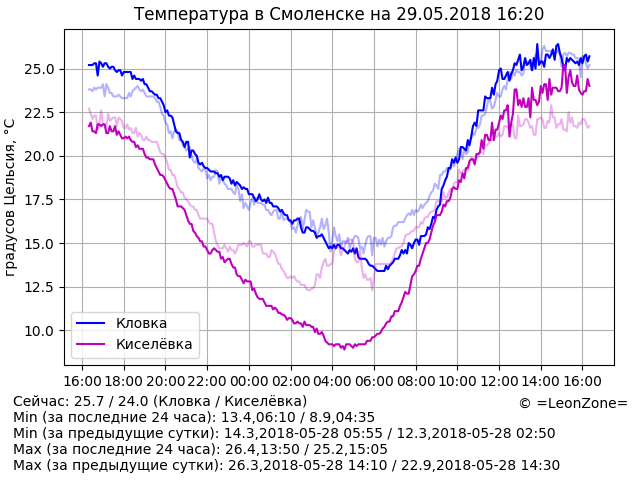
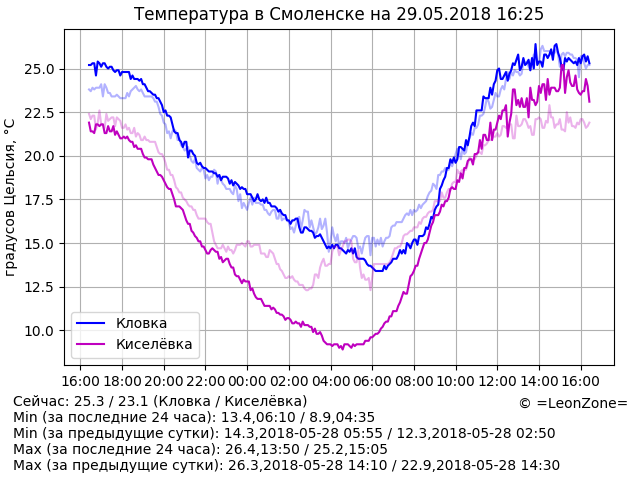
Update data

Changed region(s): [[0.125, 0.0938, 0.9375, 0.75], [0.0938, 0.7812, 0.9375, 0.8438], [0.4062, 0.625, 0.5, 0.6875]]

diff --git a/index.html b/index.html
@@ -14,7 +14,7 @@
 	<p align="center"><script>document.write("<img src=\"graph.png?rnd="+Math.random()+"\" alt=\"Температура в Смоленске\" align=\"middle\" width=\"640\" height=\"480\" />")</script>
 	<p hidden="true">
 <!-- textinfo -->
-Сейчас: 25.7 / 24.0 (Кловка / Киселёвка)
+Сейчас: 25.3 / 23.1 (Кловка / Киселёвка)
 Min (за последние 24 часа): 13.4,06:10 / 8.9,04:35
 Min (за предыдущие сутки): 14.3,2018-05-28 05:55 / 12.3,2018-05-28 02:50
 Max (за последние 24 часа): 26.4,13:50 / 25.2,15:05
